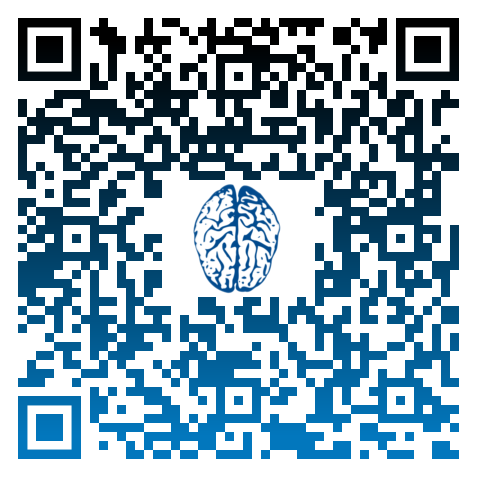
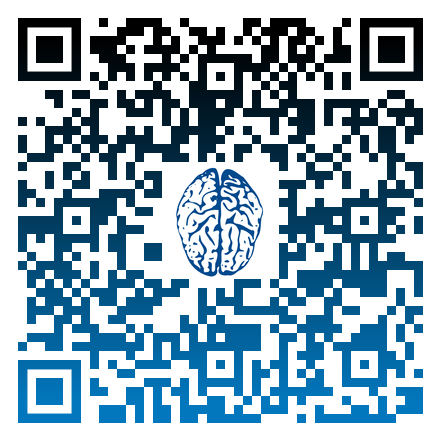
Updated files.

diff --git a/web-brain/index.html b/web-brain/index.html
@@ -146,7 +146,7 @@ Dr. Zdenek Moravcik, inventor of strong AI&nbsp;&nbsp;
 
 
 <div style="color: 014A8D; font-size: 10pt;">Permanent internet link for this website via IPFS is
-<br>&nbsp;&nbsp;<a class="blue" href="https://storry.tv/ipns/QmfLo46vhy1ZAvGXo7NCYWWYfUpyLgxHCU9AgdxT5Hma3y" title="Permanent URL for this site (alternative link via IPFS)"><b>/ipns/QmfLo46vhy1ZAvGXo7NCYWWYfUpyLgxHCU9AgdxT5Hma3y</b></a>
+<br>&nbsp;&nbsp;<a class="blue" href="https://cf-ipfs.com/ipns/k2k4r8nim6j6yc9lj0h6fg6v8s5btn4kbyrvwtwblwew1xm60r2r3t2u" title="Permanent URL for this site (alternative link via IPFS)"><b>/ipns/k2k4r8nim6j6yc9lj0h6fg6v8s5btn4kbyrvwtwblwew1xm60r2r3t2u</b></a>
 <br>(Attention: loading pages via IPFS can be slow and unreliable!)
 <br><br>
 <div style=""><img src="img/url-qr.png" width=263 border="0" title="Permanent URL for this site"></div>
